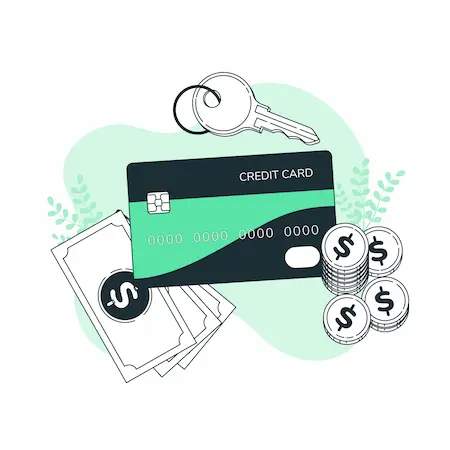
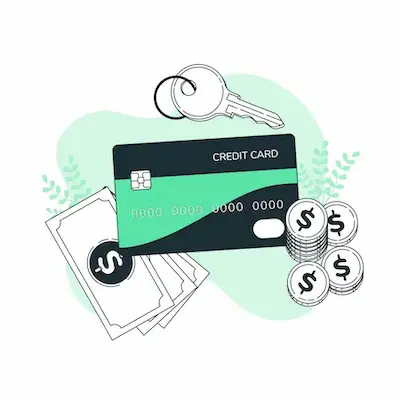
fix: reduce layout shift
also resized mobile image

diff --git a/styles.css b/styles.css
@@ -1,5 +1,3 @@
-@import url('https://fonts.googleapis.com/css2?family=Montserrat:wght@300;400&display=swap');
-
 :root {
     --color-primary: #05141A;
     --color-secondary: #E0E6EB;
@@ -25,7 +23,8 @@ html {
 }
 
 body {
-    font-family: 'Montserrat', sans-serif;
+    font-family: Avenir, Montserrat, Corbel, 'URW Gothic', source-sans-pro, sans-serif;
+    font-weight: normal;
     min-height: 100vh;
     line-height: 1.75;
 }
@@ -136,13 +135,31 @@ button[id="open-sidebar"] {
 }
 
 bento-sidebar[id="sidebar1"] {
-    background-color: var(--color-primary);
+    background-color: var(--color-tertiary);
 }
 
 bento-sidebar[id="sidebar1"] li {
     padding: 1rem;
     cursor: pointer;
 }
+
+.bento li a {
+    color: var(--color-primary);
+    line-height: 1;
+    font-size: 13px;
+    display: flex;
+    justify-content: center;
+    align-items: center;
+    height: 25px;
+    padding: 5px 20px;
+    outline: none;
+}
+
+.bento a:hover {
+    background-color: var(--color-primary);
+    color: var(--color-white);
+}
+
 
 /* END OF MOBILE NAVIGATION STYLING */
 
@@ -614,15 +631,15 @@ input[class="sign_in"] {
     }
 
     section[id="about"] .container {
-        grid-template-columns: repeat(2, 1fr);
+        grid-template-columns: repeat(2, minmax(min-content, 1fr));
     }
 
     section[id="benefits"] .container {
-        grid-template-columns: repeat(2, 1fr);
+        grid-template-columns: repeat(2, minmax(min-content, 1fr));
     }
 
     section[class="credit_section"] .container {
-        grid-template-columns: repeat(2, 1fr);
+        grid-template-columns: repeat(2, minmax(min-content, 1fr));
     }
 }
 
@@ -670,15 +687,15 @@ input[class="sign_in"] {
     }
 
     section[id="about"] .container {
-        grid-template-columns: repeat(2, 1fr);
+        grid-template-columns: repeat(2, minmax(min-content, 1fr));
     }
 
     section[id="benefits"] .container {
-        grid-template-columns: repeat(3, 1fr);
+        grid-template-columns: repeat(3, minmax(min-content, 1fr));
     }
 
     section[class="credit_section"] .container {
-        grid-template-columns: repeat(3, 1fr);
+        grid-template-columns: repeat(3, minmax(min-content, 1fr));
     }
 
     figure[class="creditcard"] {
@@ -691,7 +708,7 @@ input[class="sign_in"] {
     }
 
     section[class="contact"] .container {
-        grid-template-columns: minmax(min-content, 1fr) minmax(min-content, 1fr);
+        grid-template-columns: repeat(2, minmax(min-content, 1fr));
     }
 
     article[class="sign-in"] h2 {
